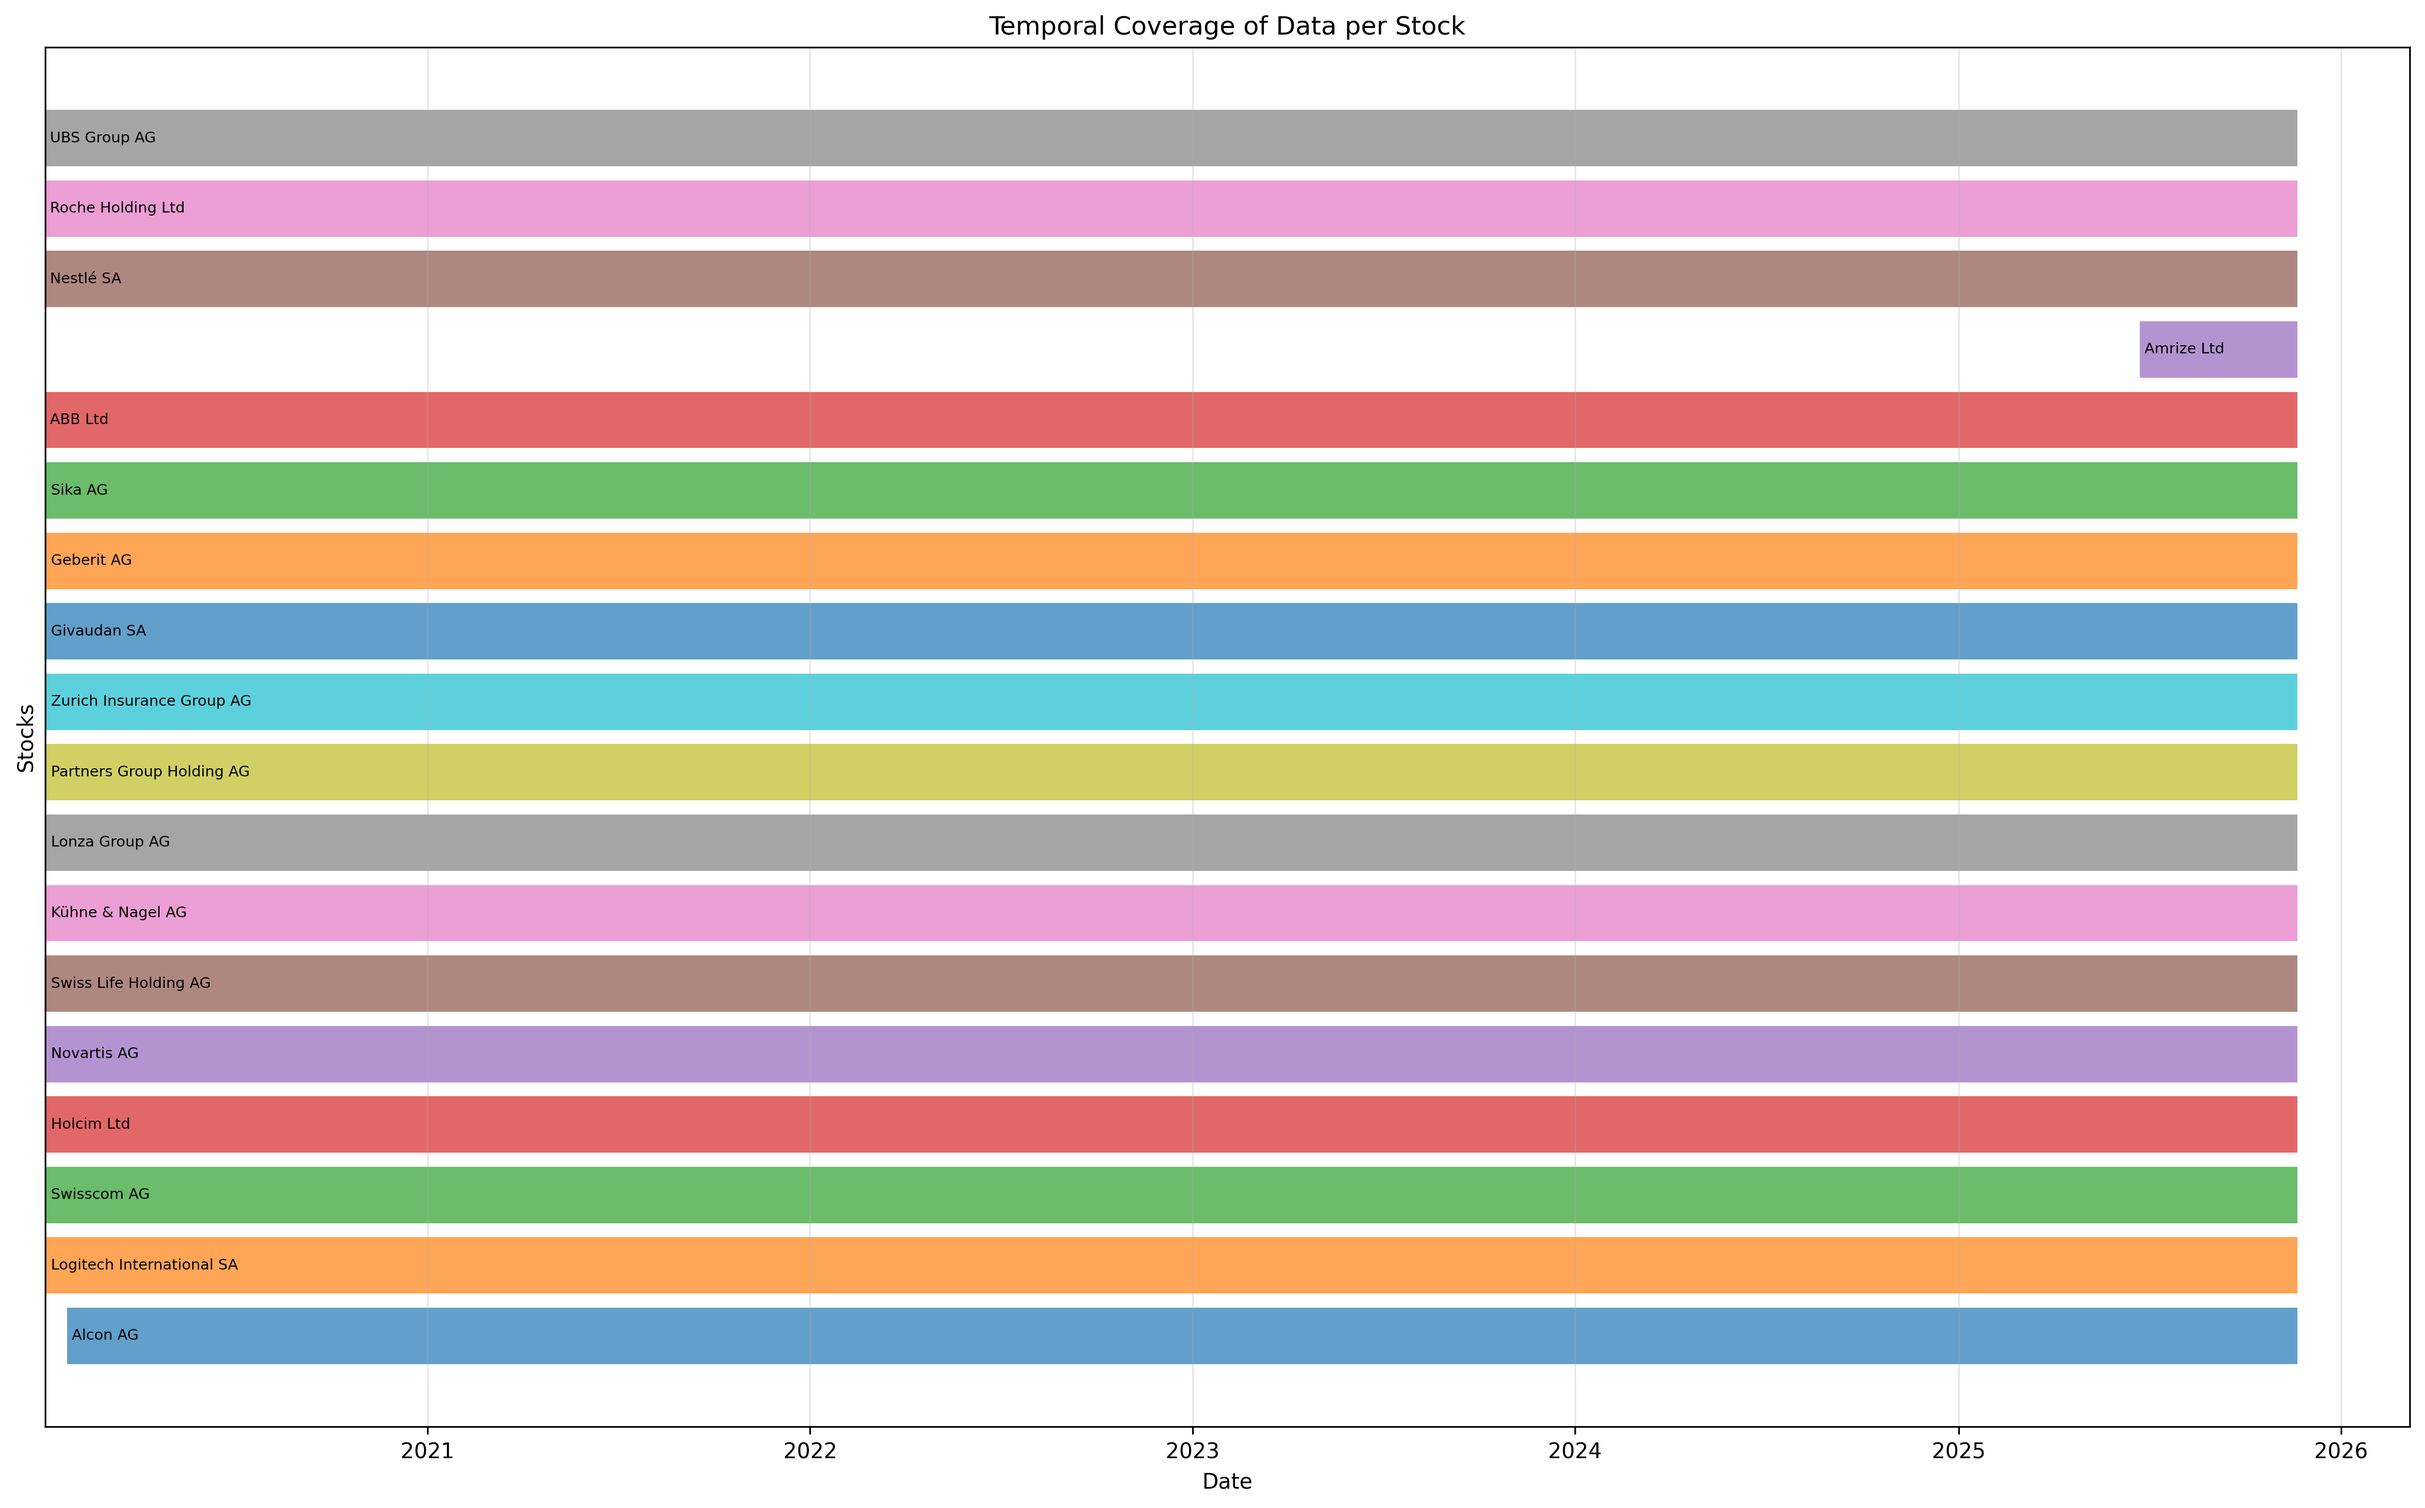
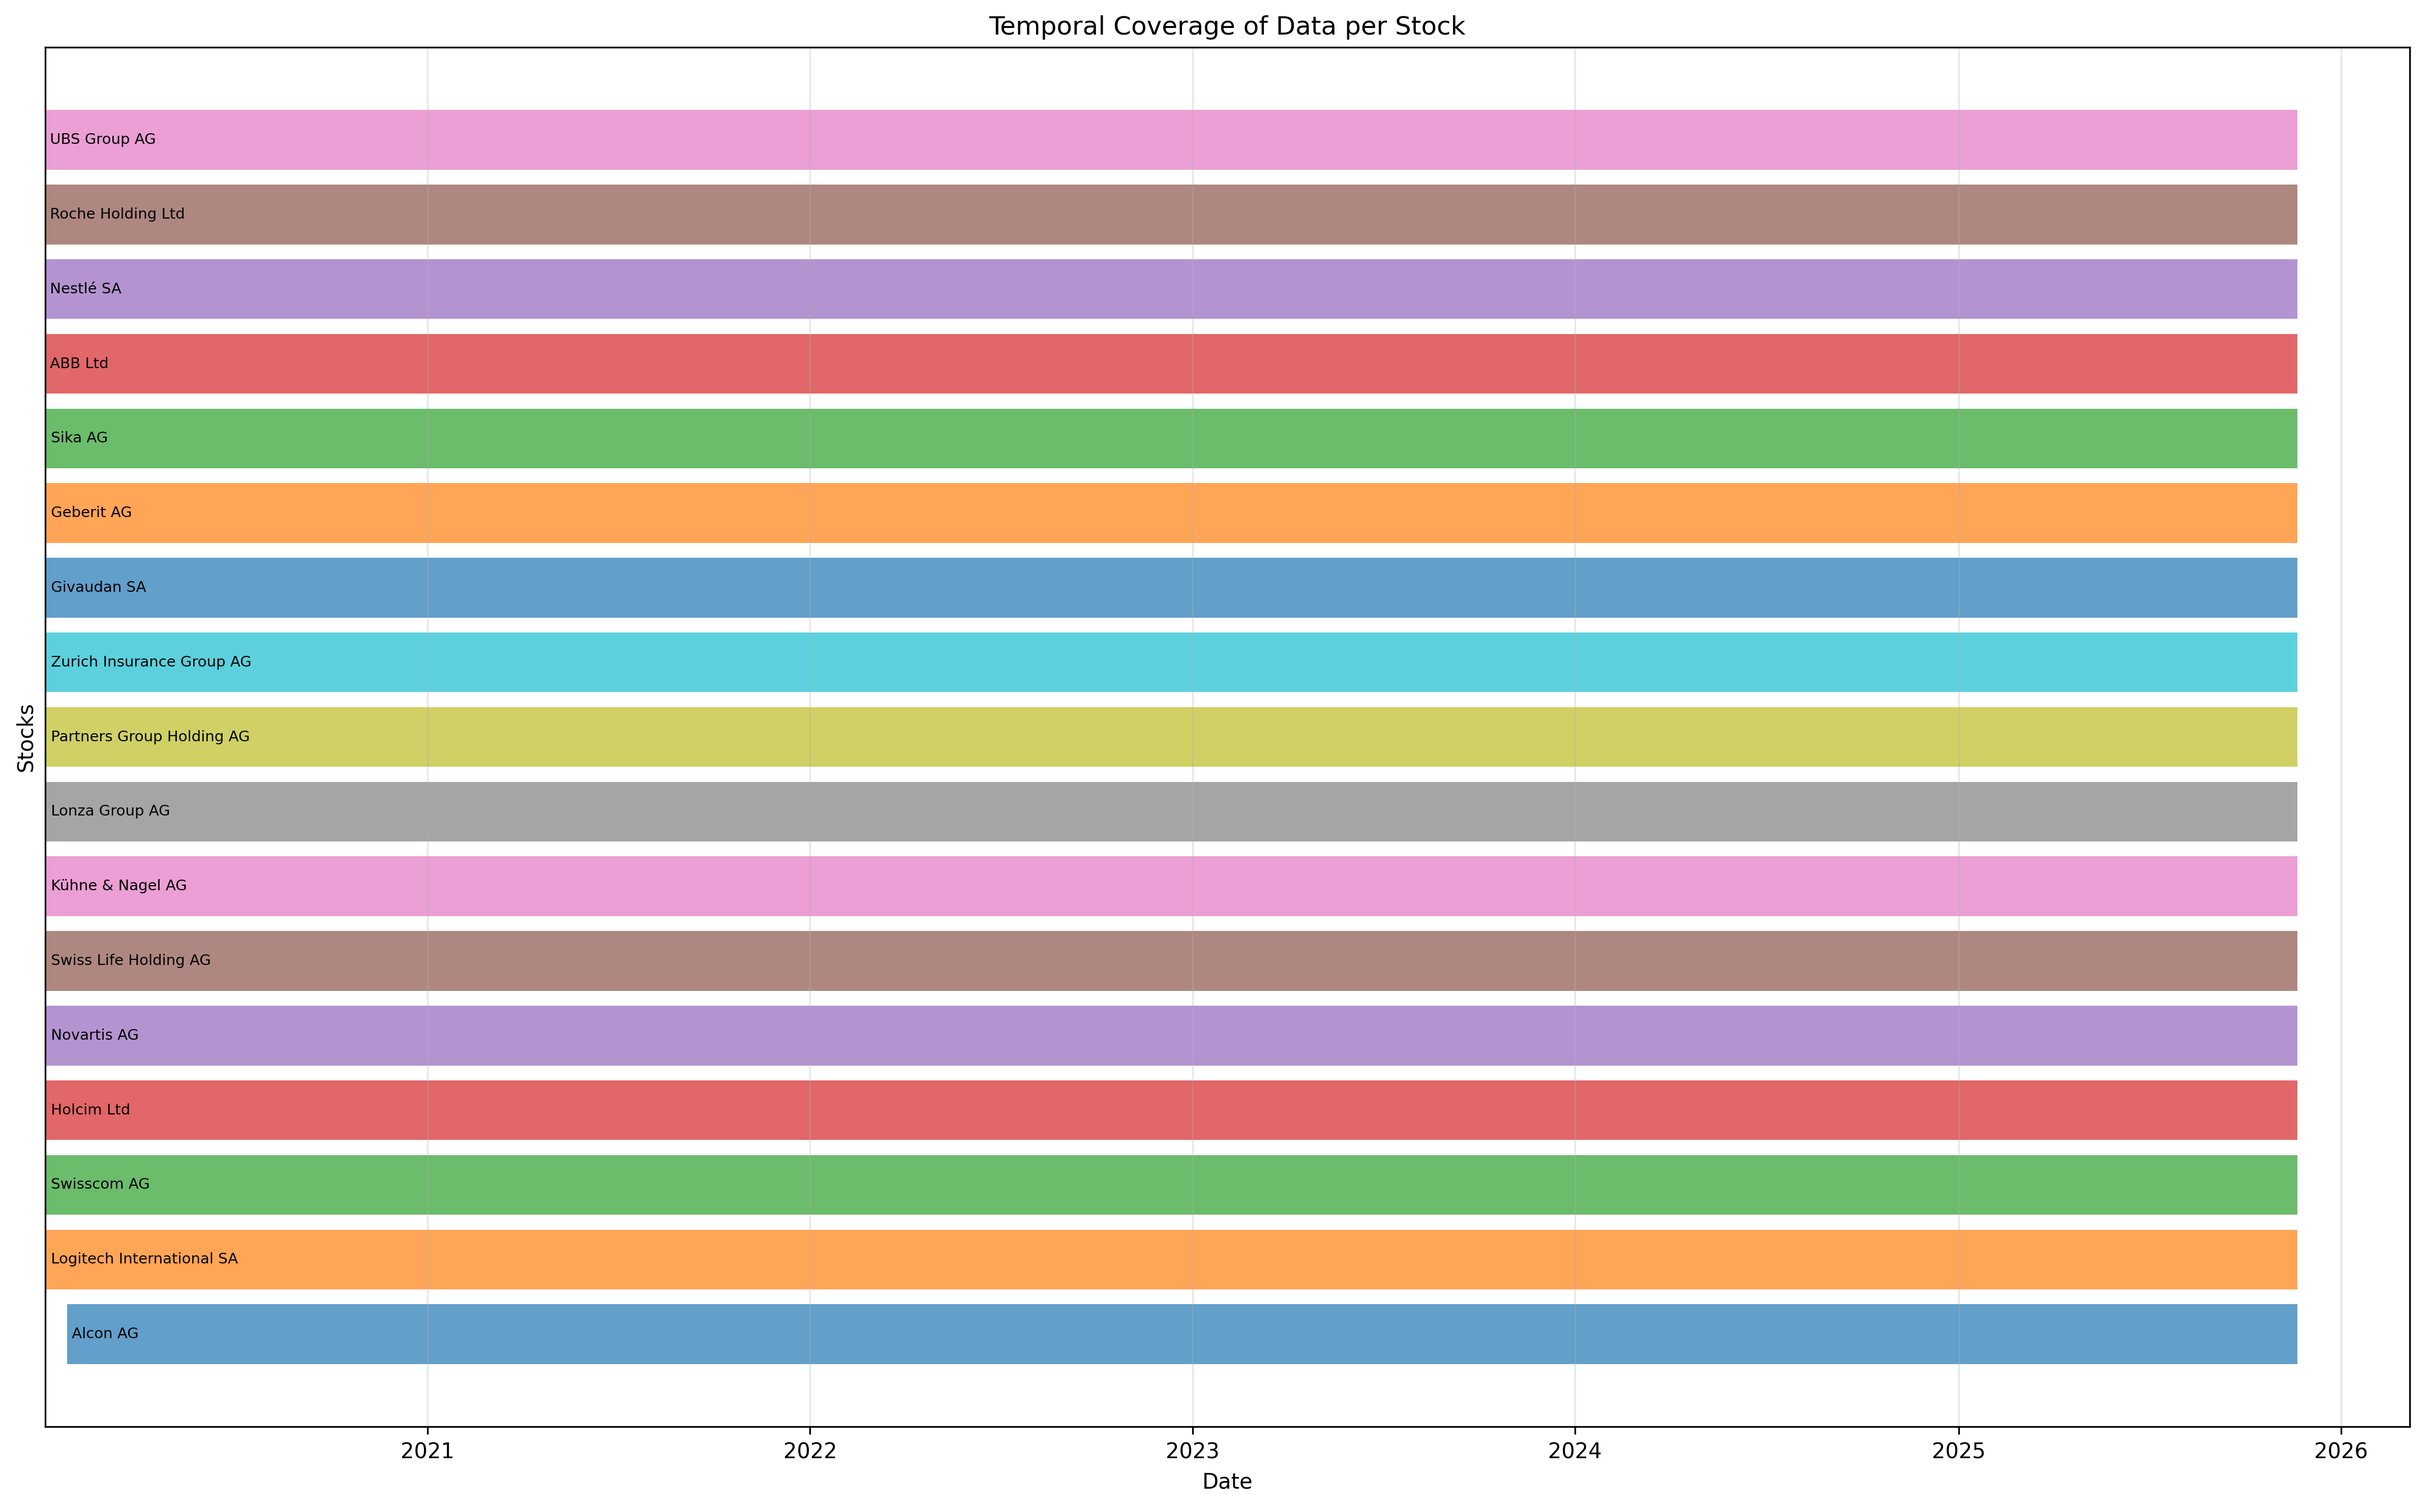
removed amrize from analysis (data starting from 2025)

diff --git a/analyze_data.py b/analyze_data.py
@@ -51,6 +51,10 @@ def load_all_data():
         # Extract ticker symbol from filename
         ticker = os.path.basename(file_path).replace("_daily_data.csv", "")
         
+        # Exclude Amrize (insufficient data)
+        if ticker == 'AMRZ':
+            continue
+            
         try:
             df = pd.read_csv(file_path)
             df['date'] = pd.to_datetime(df['date'])
